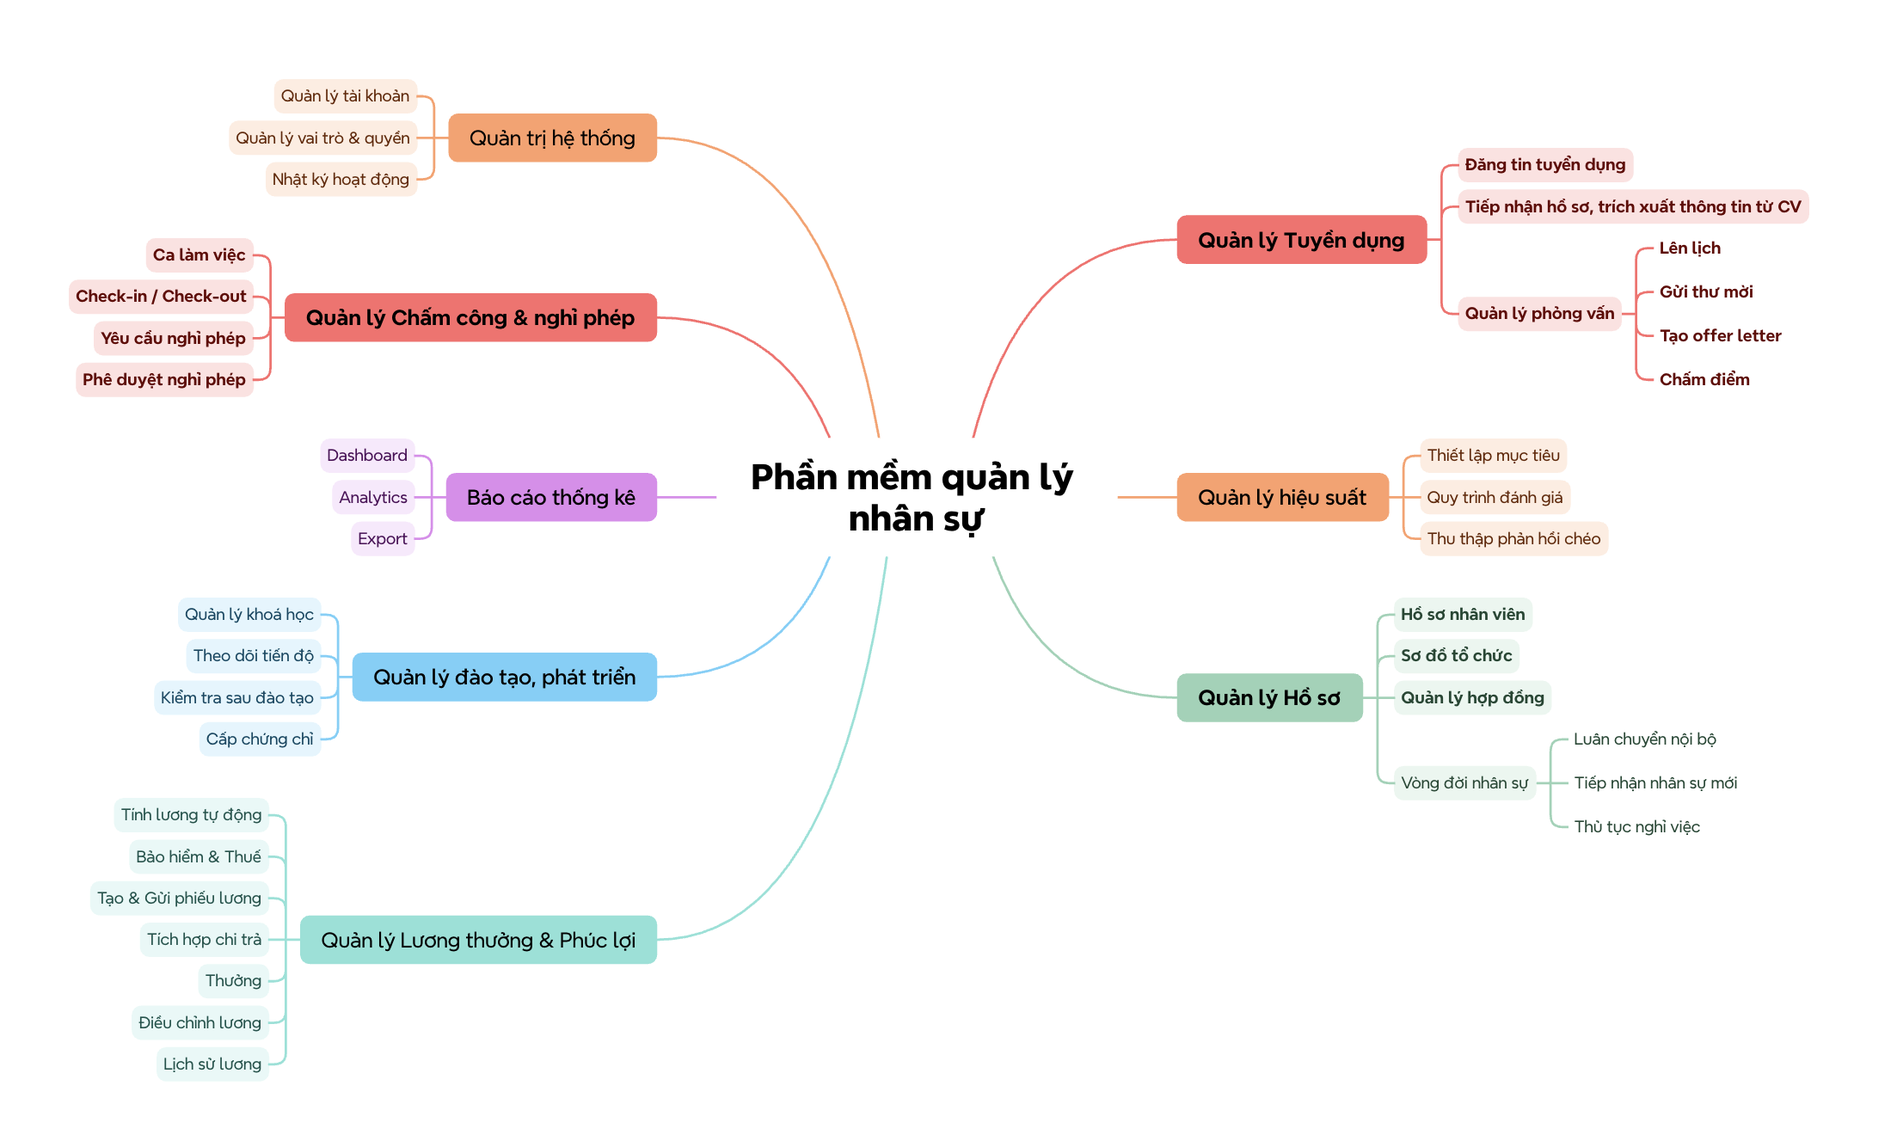
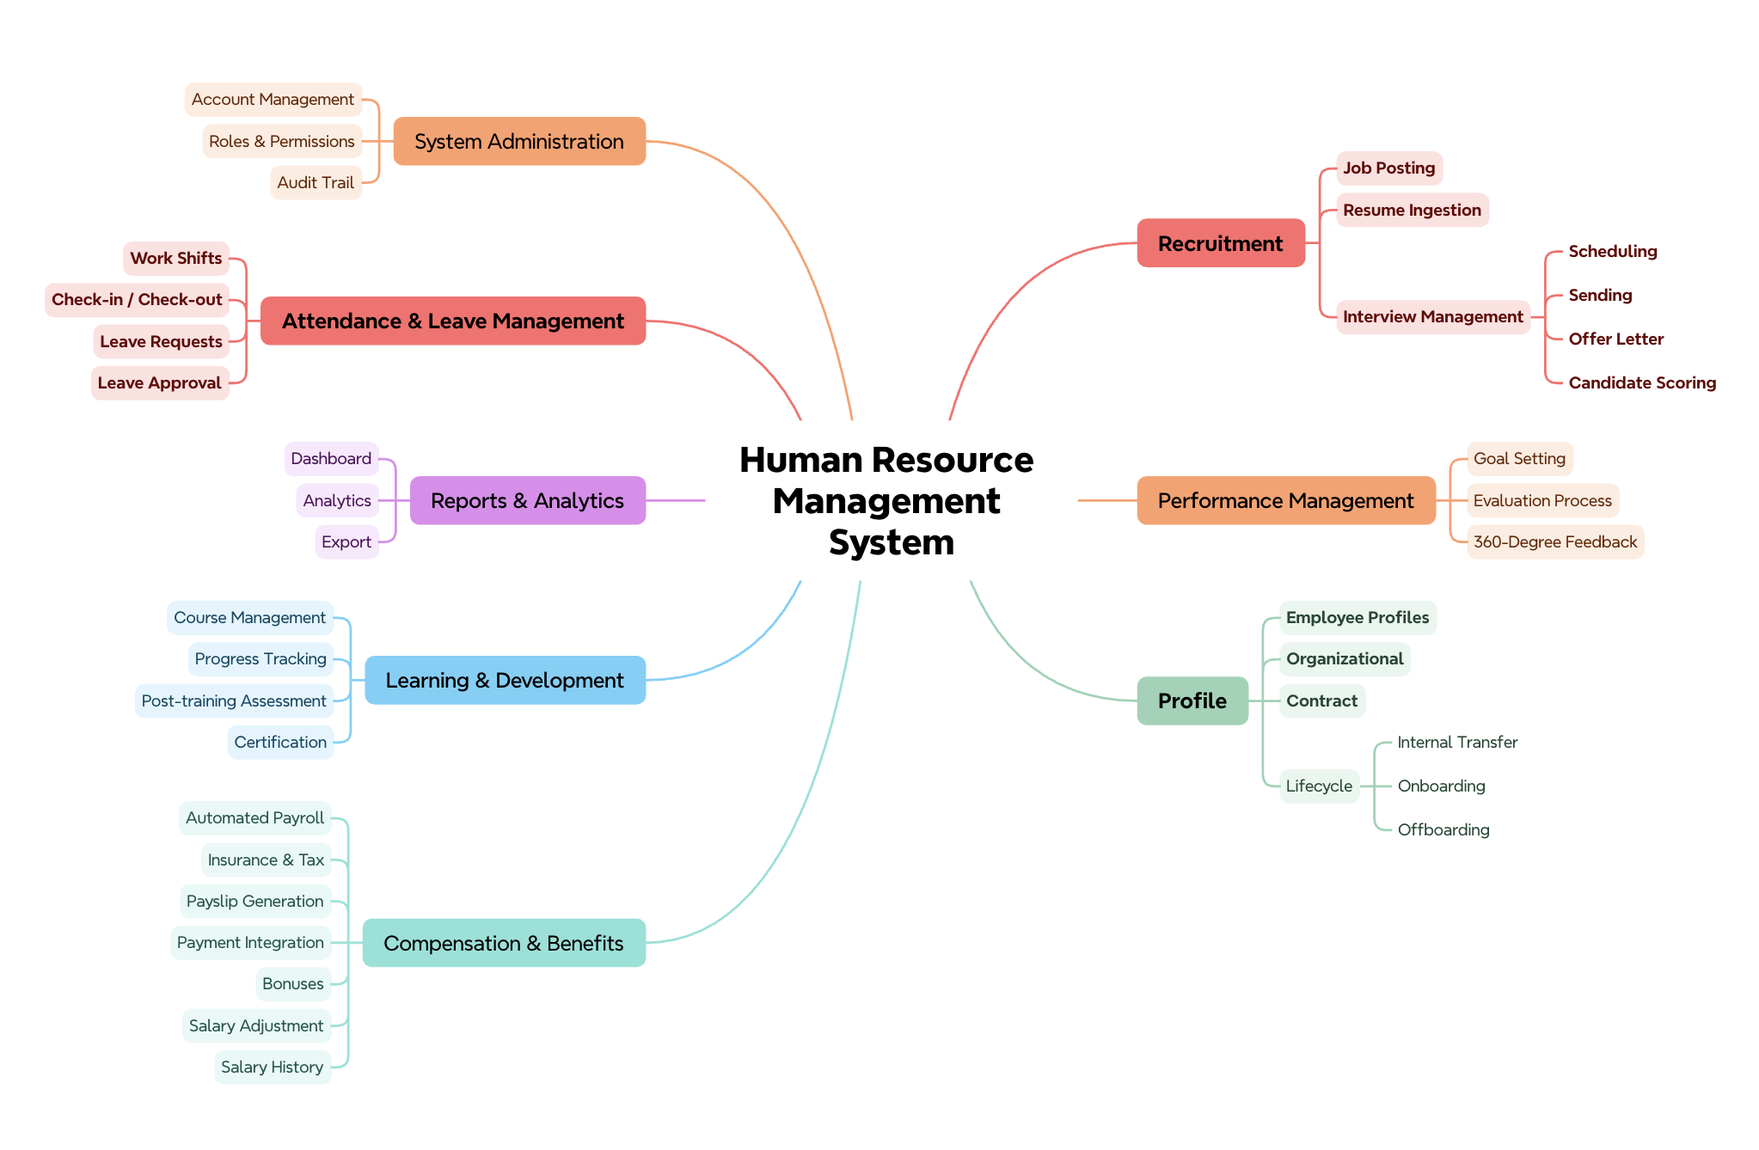
docs: update README with English translations and improved structure

diff --git a/README.md b/README.md
@@ -1,198 +1,105 @@
-# 🏢 Hệ Thống Quản Lý Nhân Sự (QLNS - HRMS)
+# 🏢 Human Resource Management System (QLNS / HRMS)
 
-> **Hệ thống Quản trị Nguồn nhân lực Toàn diện (Human Resource Management System)** được thiết kế theo phương pháp tiếp cận từ trên xuống (Top-down Approach), hỗ trợ tối ưu hóa quy trình quản lý nhân sự từ khâu tuyển dụng, quản lý hồ sơ, chấm công, tính lương đến đào tạo và phát triển.
-
----
-
-## 📌 Mục Lục
-- [1. Giới thiệu tổng quan](#1-giới-thiệu-tổng-quan)
-- [2. Sơ đồ kiến trúc chức năng (Top-down Mindmap)](#2-sơ-đồ-kiến-trúc-chức-năng-top-down-mindmap)
-- [3. Chi tiết các phân hệ chức năng](#3-chi-tiết-các-phân-hệ-chức-năng)
-  - [3.1. Quản lý Tuyển dụng](#31-quản-lý-tuyển-dụng)
-  - [3.2. Quản lý Hồ sơ & Vòng đời nhân sự](#32-quản-lý-hồ-sơ--vòng-đời-nhân-sự)
-  - [3.3. Quản lý Chấm công & Nghỉ phép](#33-quản-lý-chấm-công--nghỉ-phép)
-  - [3.4. Quản lý Lương thưởng & Phúc lợi (C&B)](#34-quản-lý-lương-thưởng--phúc-lợi-cb)
-  - [3.5. Quản lý Hiệu suất (KPI / OKR)](#35-quản-lý-hiệu-suất-kpi--okr)
-  - [3.6. Quản lý Đào tạo & Phát triển](#36-quản-lý-đào-tạo--phát-triển)
-  - [3.7. Báo cáo & Thống kê](#37-báo-cáo--thống-kê)
-  - [3.8. Quản trị Hệ thống & Phân quyền](#38-quản-trị-hệ-thống--phân-quyền)
-- [4. Kiến trúc công nghệ đề xuất (Tech Stack)](#4-kiến-trúc-công-nghệ-đề-xuất-tech-stack)
-- [5. Cấu trúc thư mục dự án (Tham khảo)](#5-cấu-trúc-thư-mục-dự-án-tham-khảo)
-- [6. Lộ trình phát triển (Roadmap)](#6-lộ-trình-phát-triển-roadmap)
-- [7. Hướng dẫn đóng góp](#7-hướng-dẫn-đóng-góp)
-- [8. Giấy phép (License)](#8-giấy-phép-license)
+> A comprehensive **Human Resource Management System (HRMS)** designed with a top-down approach to streamline HR operations—from recruitment and employee records to attendance, payroll, training, and development.
 
 ---
 
-## 1. Giới thiệu tổng quan
+## 📌 Table of Contents
 
-Hệ thống **QLNS** hướng tới việc số hóa toàn bộ quy trình nhân sự trong doanh nghiệp, giúp:
-- **Tự động hóa tác vụ**: Giảm thiểu sai sót thủ công trong chấm công, tính lương và quản lý hồ sơ.
-- **Tối ưu trải nghiệm nhân viên**: Cung cấp cổng thông tin tự phục vụ (Employee Self-Service) cho phép xem phiếu lương, gửi đơn từ, theo dõi mục tiêu cá nhân.
-- **Hỗ trợ ra quyết định**: Cung cấp báo cáo phân tích số liệu nhân sự đa chiều (biến động nhân sự, chi phí quỹ lương, năng suất lao động).
-- **Tuân thủ quy định pháp luật**: Đảm bảo chế độ bảo hiểm, thuế thu nhập cá nhân (TNCN) và quản lý hợp đồng lao động theo đúng Luật Lao động Việt Nam.
-
----
-
-## 2. Sơ đồ kiến trúc chức năng (Top-down Mindmap)
-
-Hệ thống được phân rã thành **8 trụ cột chức năng chính**:
-
-![Sơ đồ phân rã chức năng Top-down](topdown-approach.png)
-
-```mermaid
-mindmap
-  root((Phần mềm Quản lý Nhân sự))
-    Quản lý Tuyển dụng
-      Đăng tin tuyển dụng
-      Tiếp nhận hồ sơ & OCR CV
-      Quản lý phỏng vấn
-        Lên lịch
-        Gửi thư mời
-        Tạo offer letter
-        Chấm điểm
-    Quản lý Hiệu suất
-      Thiết lập mục tiêu
-      Quy trình đánh giá
-      Thu thập phản hồi chéo
-    Quản lý Hồ sơ
-      Hồ sơ nhân viên
-      Sơ đồ tổ chức
-      Quản lý hợp đồng
-      Vòng đời nhân sự
-        Luân chuyển nội bộ
-        Tiếp nhận nhân sự mới
-        Thủ tục nghỉ việc
-    Quản lý Lương thưởng & Phúc lợi
-      Tính lương tự động
-      Bảo hiểm & Thuế
-      Tạo & Gửi phiếu lương
-      Tích hợp chi trả
-      Thưởng
-      Điều chỉnh lương
-      Lịch sử lương
-    Quản lý Đào tạo & Phát triển
-      Quản lý khoá học
-      Theo dõi tiến độ
-      Kiểm tra sau đào tạo
-      Cấp chứng chỉ
-    Báo cáo Thống kê
-      Dashboard
-      Analytics
-      Export
-    Quản lý Chấm công & Nghỉ phép
-      Ca làm việc
-      Check-in / Check-out
-      Yêu cầu nghỉ phép
-      Phê duyệt nghỉ phép
-    Quản trị Hệ thống
-      Quản lý tài khoản
-      Quản lý vai trò & quyền
-      Nhật ký hoạt động
-```
+- [1. Overview](#1-overview)
+- [2. Functional Architecture (Top-down Mind Map)](#2-functional-architecture-top-down-mind-map)
+- [3. Functional Modules](#3-functional-modules)
+  - [3.1. Recruitment Management](#31-recruitment-management)
+  - [3.2. Employee Records & Lifecycle Management](#32-employee-records--lifecycle-management)
+  - [3.3. Attendance & Leave Management](#33-attendance--leave-management)
+  - [3.4. Compensation, Benefits & Payroll Management](#34-compensation-benefits--payroll-management)
+  - [3.5. Performance Management (KPI / OKR)](#35-performance-management-kpi--okr)
+  - [3.6. Training & Development Management](#36-training--development-management)
+  - [3.7. Reports & Analytics](#37-reports--analytics)
+  - [3.8. System Administration & Access Control](#38-system-administration--access-control)
+- [4. Proposed Technology Stack](#4-proposed-technology-stack)
+- [5. Suggested Project Structure](#5-suggested-project-structure)
 
 ---
 
-## 3. Chi tiết các phân hệ chức năng
+## 1. Overview
 
-### 3.1. Quản lý Tuyển dụng
-* **Đăng tin tuyển dụng**: Quản lý nhu cầu tuyển dụng (Job Requisition), soạn thảo và xuất bản tin tuyển dụng lên website nội bộ và các kênh tuyển dụng bên ngoài.
-* **Tiếp nhận hồ sơ & Trích xuất thông tin**: Quản lý Talent Pool, tự động phân tích và trích xuất thông tin cơ bản từ CV (họ tên, kỹ năng, kinh nghiệm, thông tin liên lạc) bằng AI/OCR.
-* **Quản lý phỏng vấn**:
-  * **Lên lịch**: Điều phối thời gian phỏng vấn giữa ứng viên và hội đồng phỏng vấn (tích hợp Google Calendar / Outlook).
-  * **Gửi thư mời**: Tự động gửi email mời phỏng vấn với địa điểm hoặc link họp trực tuyến.
-  * **Chấm điểm**: Biểu mẫu đánh giá theo tiêu chí định sẵn (Scorecard).
-  * **Tạo Offer Letter**: Tự động tạo thư mời nhận việc theo template và gửi ứng viên.
+**QLNS** aims to digitize end-to-end HR processes within an organization, helping teams:
 
-### 3.2. Quản lý Hồ sơ & Vòng đời nhân sự
-* **Hồ sơ nhân viên (Master Data)**: Lưu trữ đầy đủ thông tin cá nhân, liên hệ, quá trình công tác, trình độ học vấn, người phụ thuộc, tài khoản ngân hàng.
-* **Sơ đồ tổ chức (Org Chart)**: Trực quan hóa cấu trúc công ty, phòng ban, ban nhóm và quan hệ quản lý trực tiếp.
-* **Quản lý hợp đồng**: Hợp đồng thử việc, hợp đồng xác định thời hạn, không xác định thời hạn, phụ lục hợp đồng; cảnh báo trước khi hết hạn hợp đồng.
-* **Vòng đời nhân sự (Employee Lifecycle)**:
-  * **Tiếp nhận nhân sự mới (Onboarding)**: Check-list chuẩn bị thiết bị, tài khoản, hướng dẫn hội nhập.
-  * **Luân chuyển nội bộ**: Quy trình điều chuyển phòng ban, thăng chức, bổ nhiệm vị trí mới.
-  * **Thủ tục nghỉ việc (Offboarding)**: Đơn xin nghỉ, biên bản bàn giao công việc, hoàn trả tài sản, quyết toán công nợ và chấm dứt hợp đồng.
-
-### 3.3. Quản lý Chấm công & Nghỉ phép
-* **Ca làm việc**: Thiết lập ca hành chính, ca xoay, ca gãy, ca đêm, quy định làm thêm giờ (OT).
-* **Check-in / Check-out**: Đa dạng hình thức chấm công (máy chấm công vân tay/khuôn mặt, chấm công GPS qua ứng dụng di động, kết nối Wi-Fi văn phòng).
-* **Yêu cầu nghỉ phép**: Nhân viên tạo yêu cầu nghỉ phép (phép năm, nghỉ ốm, thai sản, không hưởng lương) với số ngày phép còn lại hiển thị theo thời gian thực.
-* **Phê duyệt nghỉ phép**: Quy trình duyệt đơn đa cấp (Quản lý trực tiếp -> Trưởng phòng -> Nhân sự) kèm thông báo tự động.
-
-### 3.4. Quản lý Lương thưởng & Phúc lợi (C&B)
-* **Tính lương tự động**: Công cụ tính lương linh hoạt cấu hình theo công thức, tự động tổng hợp công từ bảng chấm công, phụ cấp, thưởng và trừ phạt.
-* **Bảo hiểm & Thuế**: Tự động trích đóng BHXH, BHYT, BHTN và tính thuế Thu nhập cá nhân (TNCN) theo biểu lũy tiến từng phần mới nhất.
-* **Thưởng & Phụ cấp**: Quản lý các loại phụ cấp cố định/linh hoạt, thưởng KPI, thưởng dự án, thưởng lễ tết.
-* **Điều chỉnh & Lịch sử lương**: Theo dõi các lần tăng/giảm lương, lưu trữ quyết định lương để phục vụ tra cứu.
-* **Tạo & Gửi phiếu lương**: Tạo payslip chi tiết, bảo mật gửi trực tiếp qua email hoặc cổng thông tin nhân viên.
-* **Tích hợp chi trả**: Xuất file thanh toán theo chuẩn định dạng các ngân hàng (Vietcombank, Techcombank, BIDV, v.v.) hoặc kết nối cổng thanh toán.
-
-### 3.5. Quản lý Hiệu suất (KPI / OKR)
-* **Thiết lập mục tiêu**: Cài đặt mục tiêu theo mô hình OKR hoặc KPI cho từng cá nhân, phòng ban và toàn công ty.
-* **Quy trình đánh giá**: Chu kỳ đánh giá định kỳ (Tháng, Quý, Năm). Hỗ trợ nhân viên tự đánh giá (Self-review) và quản lý đánh giá (Manager review).
-* **Thu thập phản hồi chéo (360 Degree Feedback)**: Cho phép đồng nghiệp và cấp dưới đánh giá chéo về thái độ, tinh thần phối hợp và năng lực chuyên môn.
-
-### 3.6. Quản lý Đào tạo & Phát triển
-* **Quản lý khóa học**: Danh mục khóa học nội bộ và đào tạo ngoại viện, tài liệu học tập, giảng viên.
-* **Theo dõi tiến độ**: Ghi nhận việc tham gia, thời lượng học tập và mức độ hoàn thành bài học.
-* **Kiểm tra sau đào tạo**: Tổ chức thi trắc nghiệm, bài test đánh giá kiến thức sau khóa đào tạo.
-* **Cấp chứng chỉ**: Tự động sinh chứng nhận hoàn thành khóa học và ghi nhận vào hồ sơ năng lực nhân viên.
-
-### 3.7. Báo cáo & Thống kê
-* **Dashboard trực quan**: Biểu đồ hiển thị tình hình tổng quan (tổng số nhân sự, tỉ lệ biến động nghỉ việc - Turnover rate, tỉ lệ đi làm/nghỉ phép hôm nay).
-* **Analytics**: Phân tích quỹ lương, hiệu suất làm việc, thâm niên nhân viên, chi phí tuyển dụng trung bình trên mỗi nhân sự.
-* **Export**: Xuất dữ liệu đa định dạng (Excel, CSV, PDF) phục vụ công tác thanh kiểm tra và báo cáo ban lãnh đạo.
-
-### 3.8. Quản trị Hệ thống & Phân quyền
-* **Quản lý tài khoản**: Xác thực danh tính, hỗ trợ xác thực hai yếu tố (2FA), đăng nhập một lần (SSO - Google Workspace / Microsoft 365).
-* **Quản lý vai trò & quyền (RBAC)**: Phân quyền chi tiết theo vai trò (Super Admin, HR Manager, HR Officer, Team Lead, Employee).
-* **Nhật ký hoạt động (Audit Logs)**: Ghi log toàn bộ thao tác hệ thống (đăng nhập, sửa đổi dữ liệu lương, xuất file dữ liệu) nhằm đảm bảo an toàn thông tin và tính minh bạch.
+- **Automate routine work:** Minimize manual errors in attendance tracking, payroll, and employee-record management.
+- **Improve the employee experience:** Offer an Employee Self-Service portal for viewing payslips, submitting requests, and tracking individual goals.
+- **Support decision-making:** Provide multidimensional HR analytics, including workforce changes, payroll costs, and productivity.
+- **Maintain legal compliance:** Support insurance contributions, personal income tax, and employment-contract management in accordance with Vietnamese labor law.
 
 ---
 
-## 4. Kiến trúc công nghệ đề xuất (Tech Stack)
+## 2. Functional Architecture (Top-down Mind Map)
 
-Dưới đây là kiến trúc tham chiếu phù hợp để triển khai hệ thống:
+The system is organized into **eight core functional pillars**:
 
-| Tầng kiến trúc | Công nghệ đề xuất | Lợi thế |
-| :--- | :--- | :--- |
-| **Frontend** | React / Next.js / Vue 3 + Tailwind CSS | Hiệu năng cao, UI hiện đại, hỗ trợ SSR/SSG linh hoạt |
-| **Backend** | Node.js (NestJS) / Golang / Java (Spring Boot) | Kiến trúc module rõ ràng, xử lý tác vụ doanh nghiệp mạnh mẽ |
-| **Database** | PostgreSQL / MySQL + Redis (Cache) | Toàn vẹn dữ liệu giao dịch tài chính, lưu trữ quan hệ chặt chẽ |
-| **Authentication** | JWT, OAuth 2.0 / OpenID Connect | Chuẩn xác thực phổ biến, dễ tích hợp SSO |
-| **AI / OCR Service** | Python (FastAPI) + PaddleOCR / OpenAI API | Xử lý bóc tách thông tin CV và văn bản tự động |
-| **Storage & Media** | S3 / MinIO | Lưu trữ file CV, hợp đồng, chứng chỉ, avatar bảo mật |
-| **DevOps & Deploy** | Docker, Kubernetes, CI/CD GitHub Actions | Đóng gói môi trường đồng nhất, mở rộng linh hoạt |
+![Top-down functional decomposition diagram](topdown-approach.png)
 
 ---
 
-## 5. Cấu trúc thư mục dự án (Tham khảo)
+## 3. Functional Modules
 
-```text
-QLNS/
-├── .github/                  # CI/CD Workflows, issue templates
-├── docs/                     # Tài liệu thiết kế chi tiết, API specs
-│   └── topdown-approach.png  # Sơ đồ tiếp cận Top-down
-├── backend/                  # Mã nguồn phía máy chủ (API Server)
-│   ├── src/
-│   │   ├── modules/
-│   │   │   ├── auth/         # Xác thực & Phân quyền
-│   │   │   ├── recruitment/  # Tuyển dụng
-│   │   │   ├── employee/     # Hồ sơ & Hợp đồng
-│   │   │   ├── attendance/   # Chấm công & Nghỉ phép
-│   │   │   ├── payroll/      # Lương thưởng & Phúc lợi
-│   │   │   ├── performance/  # Đánh giá hiệu suất
-│   │   │   ├── training/     # Đào tạo
-│   │   │   └── report/       # Báo cáo thống kê
-│   │   └── main.ts
-│   └── Dockerfile
-├── frontend/                 # Giao diện người dùng (Web Client / Mobile)
-│   ├── src/
-│   │   ├── components/       # UI Components dùng chung
-│   │   ├── pages/ (hoặc app/)# Các màn hình theo từng phân hệ
-│   │   └── services/         # Tích hợp API
-│   └── package.json
-├── docker-compose.yml        # Thiết lập chạy môi trường phát triển cục bộ
-└── README.md                 # Tài liệu hướng dẫn dự án
-```
+### 3.1. Recruitment Management
 
+- **Job posting:** Manage job requisitions, create job descriptions, and publish openings to the internal website and external recruitment channels.
+- **Application intake & data extraction:** Maintain a talent pool and automatically parse key CV details—such as name, skills, experience, and contact information—using AI/OCR.
+- **Interview management:**
+  - **Scheduling:** Coordinate interview times between candidates and interview panels, with Google Calendar / Outlook integration.
+  - **Invitations:** Automatically send interview invitation emails with the location or online-meeting link.
+  - **Evaluation:** Use predefined scorecards for candidate assessment.
+  - **Offer letters:** Generate offer letters from templates and send them to candidates.
+
+### 3.2. Employee Records & Lifecycle Management
+
+- **Employee profile (master data):** Store complete personal, contact, employment-history, education, dependent, and bank-account information.
+- **Organization chart:** Visualize the company structure, departments, teams, and direct reporting relationships.
+- **Contract management:** Manage probationary, fixed-term, indefinite-term, and addendum contracts, with expiration reminders.
+- **Employee lifecycle:**
+  - **Onboarding:** Checklists for equipment, accounts, and orientation.
+  - **Internal mobility:** Workflows for department transfers, promotions, and new appointments.
+  - **Offboarding:** Resignation requests, work handover records, asset returns, outstanding-balance settlement, and contract termination.
+
+### 3.3. Attendance & Leave Management
+
+- **Work shifts:** Configure regular, rotating, split, and night shifts, as well as overtime (OT) rules.
+- **Check-in / check-out:** Support multiple attendance methods, including fingerprint/facial-recognition devices, GPS check-ins through mobile apps, and office Wi-Fi connectivity.
+- **Leave requests:** Employees can submit requests for annual leave, sick leave, maternity leave, or unpaid leave, with real-time leave-balance visibility.
+- **Leave approval:** Multi-level approval workflows (Direct Manager → Department Head → HR) with automatic notifications.
+
+### 3.4. Compensation, Benefits & Payroll Management
+
+- **Automated payroll:** A flexible, formula-based payroll engine that aggregates attendance, allowances, bonuses, and deductions.
+- **Insurance & tax:** Automatically calculate social, health, and unemployment insurance contributions, along with personal income tax under the latest progressive tax brackets.
+- **Bonuses & allowances:** Manage fixed and flexible allowances, KPI bonuses, project bonuses, and holiday bonuses.
+- **Salary adjustments & history:** Track salary increases and decreases, and retain salary decisions for future reference.
+- **Payslip generation & delivery:** Generate detailed payslips and securely distribute them by email or through the employee portal.
+- **Payment integration:** Export bank-standard payment files (e.g., Vietcombank, Techcombank, BIDV) or connect to payment gateways.
+
+### 3.5. Performance Management (KPI / OKR)
+
+- **Goal setting:** Define OKRs or KPIs for individuals, departments, and the entire organization.
+- **Review process:** Run recurring review cycles (monthly, quarterly, or annually), supporting employee self-reviews and manager reviews.
+- **360-degree feedback:** Enable peer and subordinate feedback on attitude, collaboration, and professional competency.
+
+### 3.6. Training & Development Management
+
+- **Course management:** Maintain a catalog of internal and external courses, learning materials, and instructors.
+- **Progress tracking:** Record attendance, learning time, and lesson-completion status.
+- **Post-training assessment:** Deliver quizzes and assessments to evaluate knowledge after training.
+- **Certification:** Automatically generate course-completion certificates and record them in employee competency profiles.
+
+### 3.7. Reports & Analytics
+
+- **Visual dashboards:** Display high-level metrics such as headcount, employee turnover rate, and today's attendance/leave rate.
+- **Analytics:** Analyze payroll funds, performance, employee tenure, and average recruitment cost per hire.
+- **Export:** Export data in Excel, CSV, and PDF formats for audits, inspections, and management reporting.
+
+### 3.8. System Administration & Access Control
+
+- **Account management:** Provide identity authentication, two-factor authentication (2FA), and single sign-on (SSO) through Google Workspace / Microsoft 365.
+- **Role & permission management (RBAC):** Apply granular permissions by role, such as Super Admin, HR Manager, HR Officer, Team Lead, and Employee.
+- **Audit logs:** Record all system activities—including sign-ins, payroll-data edits, and data exports—to improve information security and transparency.
